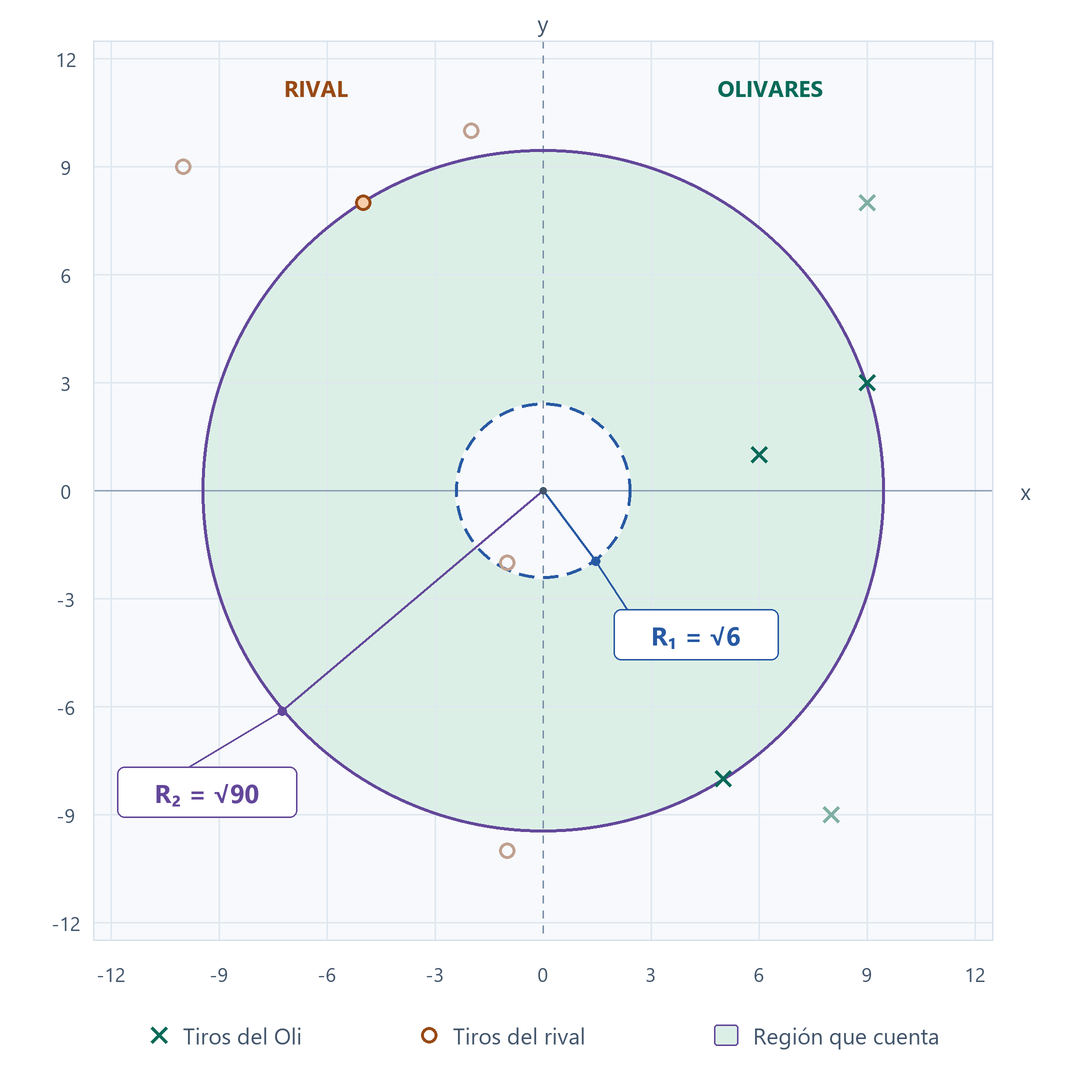
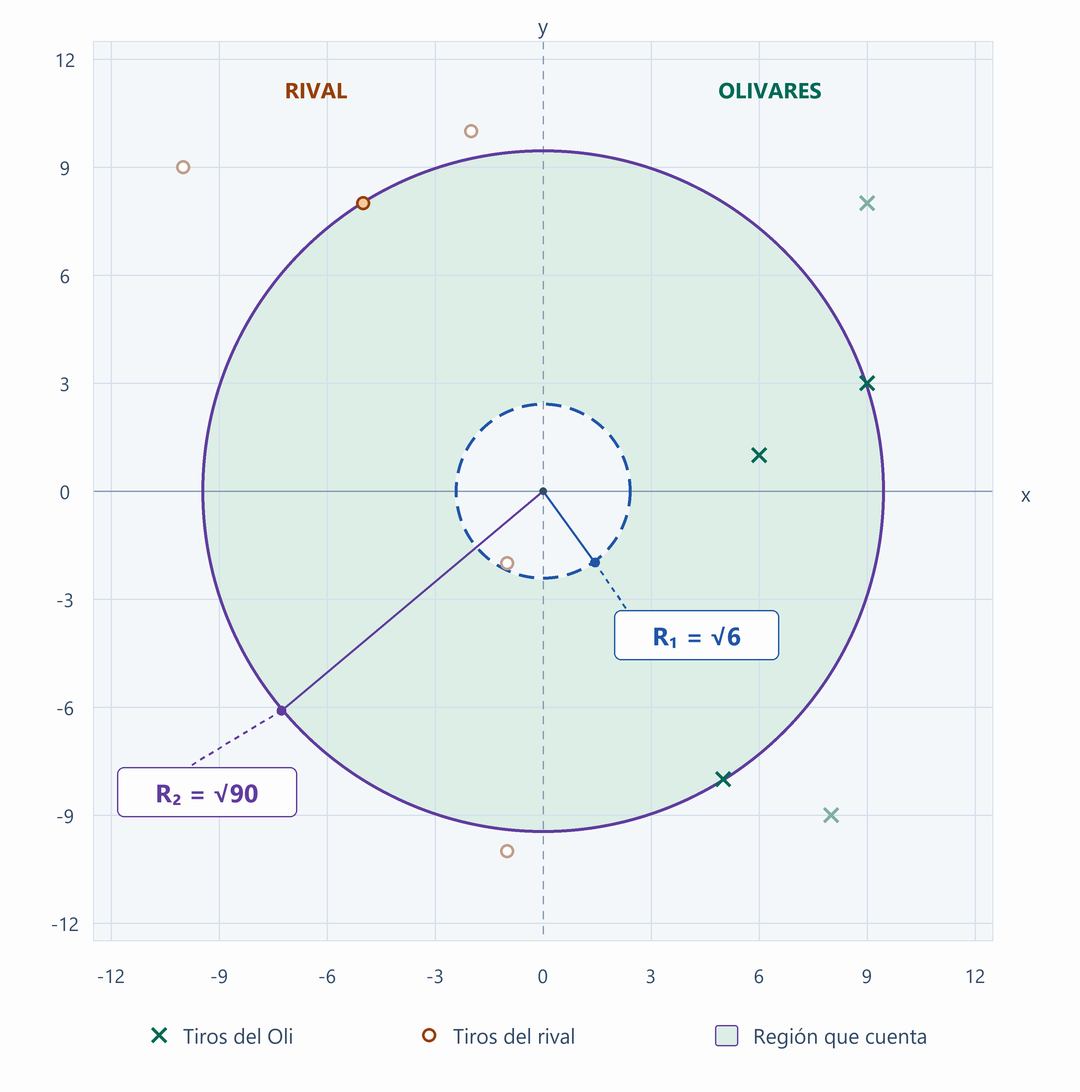
Lanzamiento de Aceitunas: Quita explicacion prefix sums y agrega enlace juez online

diff --git a/quartz/static/aceitunas-aro/index.html b/quartz/static/aceitunas-aro/index.html
@@ -453,6 +453,21 @@
           min-height: 2.75rem;
         }
       }
+      .site-credit {
+        margin-top: 1.5rem;
+        padding-top: 1rem;
+        border-top: 1px solid var(--line);
+        color: var(--muted);
+        font-size: 0.875rem;
+        text-align: center;
+      }
+      .site-credit a {
+        color: #245ba2;
+        font-weight: 650;
+      }
+      :root[data-theme="dark"] .site-credit a {
+        color: #9cb8ff;
+      }
     </style>
   </head>
   <body>
@@ -704,6 +719,10 @@
           </p>
         </section>
       </div>
+      <footer class="site-credit">
+        Hecho con amor por <a href="https://github.com/LinuxPreachers">Los Predicadores de Linux</a>
+        y Codex ❤
+      </footer>
     </main>
 
     <script>

diff --git a/quartz/static/aceitunas-reducciones/index.html b/quartz/static/aceitunas-reducciones/index.html
@@ -650,6 +650,18 @@
           font-size: 0.75rem;
         }
       }
+      .site-credit {
+        margin-top: 1.5rem;
+        padding-top: 1rem;
+        border-top: 1px solid var(--line);
+        color: var(--muted);
+        font-size: 0.875rem;
+        text-align: center;
+      }
+      .site-credit a {
+        color: #245ba2;
+        font-weight: 650;
+      }
     </style>
     <link rel="stylesheet" href="experience.css" />
   </head>
@@ -963,6 +975,10 @@
           </figcaption>
         </figure>
       </div>
+      <footer class="site-credit">
+        Hecho con amor por <a href="https://github.com/LinuxPreachers">Los Predicadores de Linux</a>
+        y Codex ❤
+      </footer>
     </main>
     <script>
       const example = [

diff --git a/quartz/static/aceitunas-comparacion/index.html b/quartz/static/aceitunas-comparacion/index.html
@@ -194,6 +194,11 @@
           empates, se conserva la primera mejora estricta.
         </p>
         <p>Las dos visualizaciones anteriores siguen disponibles desde el enunciado.</p>
+        <p class="site-credit">
+          Hecho con amor por
+          <a href="https://github.com/LinuxPreachers">Los Predicadores de Linux</a>
+          y Codex ❤
+        </p>
       </footer>
     </main>
   </body>

diff --git a/quartz/static/aceitunas-comparacion/comparison.css b/quartz/static/aceitunas-comparacion/comparison.css
@@ -784,6 +784,20 @@ footer {
   display: grid;
   gap: 0.35rem;
 }
+.site-credit {
+  margin-top: 1.5rem;
+  padding-top: 1rem;
+  border-top: 1px solid var(--line);
+  font-size: 0.875rem;
+  text-align: center;
+}
+.site-credit a {
+  color: #245ba2;
+  font-weight: 650;
+}
+:root[data-theme="dark"] .site-credit a {
+  color: #9cb8ff;
+}
 [hidden] {
   display: none !important;
 }

diff --git a/content/bestiario/oia/lanzamiento-de-aceitunas.md b/content/bestiario/oia/lanzamiento-de-aceitunas.md
@@ -9,9 +9,11 @@ tags:
 
 En un partido de lanzamiento de aceitunas, dos jugadores tiran desde lados opuestos de una red. La red coincide con el eje $y$ y cada jugador apunta a la mitad de enfrente. Por enunciado, ningún tiro puede caer sobre la red ($x=0$). El club Olivares Intergalácticos Asociados, conocido como el Oli, registró la posición $(x,y)$ donde cayó cada aceituna. Los tiros que cayeron a la derecha de la red ($x>0$) son del Oli y los que cayeron a la izquierda ($x<0$) son de su rival.
 
-Con el partido terminado, podemos elegir qué franja de la cancha se usa para calcular el resultado. La región válida es un **aro** centrado en el origen, delimitado por una circunferencia interior de radio $R_1$ y otra exterior de radio $R_2$. Una aceituna cuenta cuando su distancia al centro queda entre los dos radios. Los tiros que caen exactamente sobre cualquiera de las circunferencias también cuentan.
+Con el partido terminado, podemos elegir qué franja de la cancha se usa para calcular el resultado. La región válida es un **aro** centrado en el origen, delimitado por una circunferencia interior de radio $R_1$ y otra exterior de radio $R_2$. Una aceituna cuenta si cae dentro del aro delimitado por los dos radios, incluidos ambos bordes.
 
 El objetivo es elegir $R_1$ y $R_2$ para maximizar la diferencia entre los tiros válidos del Oli y los tiros válidos del rival. Esta variante adapta el problema de cancha circular del [enunciado original del Jurisdiccional OIA 2018](https://www.oia.unsam.edu.ar/wp-content/uploads/2020/04/olivares2.pdf).
+
+Para entender mejor cómo se cuentan los tiros, mové los bordes y observá cómo cambia el resultado. <a href="static/aceitunas-aro/#enunciado" data-router-ignore="true" data-no-popover="true">Explorar el aro y calcular su puntaje</a>
 
 ## Intuición
 
@@ -103,7 +105,7 @@ Llamamos `distCuad` a $x^2+y^2$ y lo usamos como clave de un [[map|mapa]] `difs`
 
 ### Del mapa a un vector de aportes
 
-Ordenamos las claves del mapa de menor a mayor en el [[array|vector]] `radiosCuad`. Ese orden importa porque, si el aro incluye dos radios, también incluye todos los que están entre ellos. Una vez ordenados, todos los grupos que entran al aro ocupan un bloque consecutivo. Las claves con aporte neto cero se conservan porque corresponden a tiros y pueden determinar dónde queda un borde.
+Ordenamos las claves del mapa de menor a mayor en el [[array|vector]] `radiosCuad`. Ese orden importa porque, si el aro incluye dos radios, también incluye todos los que están entre ellos. Una vez ordenados, todos los grupos que entran al aro ocupan un bloque consecutivo.
 
 Hay $M$ claves distintas entre $N$ tiros, con $1 \le M \le N$. El `dict` de Python implementa el mapa con una [[hash table|tabla hash]]. Agrupar cuesta $O(N)$ esperado y ordenar las claves cuesta $O(M\log M)$. Leer los valores en ese orden cuesta $O(M)$, con $O(M)$ de espacio auxiliar para el mapa y los vectores.
 
@@ -123,10 +125,6 @@ El menor cuadrado exterior es `radiosCuad[fin]`, porque el último grupo tiene q
 
 Entre los rangos de puntaje máximo positivo, elegimos el que tenga **el menor índice de inicio**. Si hay empate también en el inicio, elegimos el menor final. La consigna admite cualquier respuesta óptima.
 
-Con un óptimo positivo, consideramos el primer `fin` que alcanza el máximo y, para ese `fin`, el primer `ini` que lo alcanza. Así obtenemos el menor borde exterior. Si otro intervalo óptimo empezara antes de `ini`, su final tendría que ser posterior a `fin`. Un final anterior o igual contradiría cómo elegimos los índices. Entonces contendría a `[ini, fin]` y agregaría un tramo a cada lado. Esos tramos sumarían cero juntos. Cada tramo tiene suma a lo sumo cero, porque agregar por separado uno de suma positiva mejoraría el óptimo. Por lo tanto, ambos suman cero. Podríamos agregar el tramo izquierdo al intervalo que termina en `fin`, lo que contradice que `ini` era el primer inicio posible.
-
-Por lo tanto, el mismo intervalo tiene a la vez el menor inicio y el menor final entre los óptimos. Fuerza bruta lo encuentra al recorrer primero los inicios. Kadane lo encuentra al recorrer primero los finales. Esta elección minimiza también $R_1+R_2$ entre las respuestas con cuadrados enteros, porque cada radio es mínimo.
-
 ## Soluciones disponibles
 
 - [[lanzamiento-de-aceitunas-fuerza-bruta|Fuerza bruta con suma acumulada]]
@@ -137,6 +135,15 @@ Por lo tanto, el mismo intervalo tiene a la vez el menor inicio y el menor final
 - <a href="static/aceitunas-aro/#enunciado" data-router-ignore="true" data-no-popover="true">Explorar el aro y calcular su puntaje</a>
 - <a href="static/aceitunas-reducciones/#enunciado" data-router-ignore="true" data-no-popover="true">Ver el agrupamiento y simular ambos algoritmos</a>
 - <a href="static/aceitunas-comparacion/#enunciado" data-router-ignore="true" data-no-popover="true">Comparar Kadane y fuerza bruta en simultáneo</a>
+
+## Probá tu solución en Codeforces
+
+El problema está disponible en el juez Codeforces. Para enviar tu solución, seguí estos pasos.
+
+1. Entrá al [grupo de Codeforces](https://codeforces.com/group/x4ir9VBYqC/contests) y unite al grupo.
+2. Buscá el concurso **PruebaLanzamientoAceitunas** y hacé clic en **Enter**.
+3. Abrí **Lanzamiento de Aceitunas LP**. Si ya estás en el grupo, podés usar el [enlace directo al problema](https://codeforces.com/group/x4ir9VBYqC/contest/735070/problem/A).
+4. Hacé clic en **Submit code**, elegí el lenguaje y subí o pegá tu solución para que el juez la evalúe.
 
 ## Referencias
 

diff --git a/content/bestiario/oia/soluciones/lanzamiento-de-aceitunas-greedy.md b/content/bestiario/oia/soluciones/lanzamiento-de-aceitunas-greedy.md
@@ -15,21 +15,18 @@ Aplicamos el **algoritmo de Kadane**. En cada posición elegimos entre empezar u
 
 Con el ejemplo cargado, dejá fijo el borde exterior y aumentá el radio interior hasta excluir el tiro más cercano al centro. Observá cómo descartar ese aporte negativo mejora el puntaje. <a id="visualizacion-aro" href="static/aceitunas-aro/#kadane" data-router-ignore="true" data-no-popover="true">Explorar el aro y calcular su puntaje</a>
 
-### Construir y consultar sumas de prefijos
+### Extender el rango o empezar de nuevo
 
-Para un vector `a`, `sum[fin]` es la suma del prefijo `a[0..fin]`. El prefijo de una posición contiene solo `a[0]`, así que `sum[0] = a[0]`. Para extenderlo una posición agregamos el elemento siguiente. Por eso `sum[fin] = sum[fin - 1] + a[fin]` para `fin > 0`. Con `a = [-1, 1, 0, 1]`, empezamos en `-1` y obtenemos `0` al sumar `1`, otro `0` al sumar `0` y `1` al sumar el último aporte. Así se construye `sum = [-1, 0, 0, 1]` en una pasada.
+Armamos el [[array|vector]] `aportes` con los valores de `difs` en el orden de `radiosCuad`. Lo recorremos del radio más chico al más grande. Antes de procesar cada nuevo radio, `suma` guarda el puntaje del mejor rango que termina en el radio anterior e `inicio` guarda dónde empieza.
 
-Para obtener la suma de `[inicio, fin]`, usamos `sum[fin] - sum[inicio - 1]`. El segundo término quita la parte anterior al rango. Para `inicio = 0`, usamos directamente `sum[fin]`. Por ejemplo, `[1, 3]` suma `1 - (-1) = 2`. Construir `sum` cuesta $O(M)$ para $M$ elementos y consultar un rango cuesta $O(1)$.
+Para encontrar el mejor rango que termina en `fin`, comparamos dos opciones.
 
-### Elegir el inicio sobre la marcha
+- **Extender el rango anterior.** Conservamos `inicio` y el puntaje pasa a ser `suma + aporte`. Todos los rangos que terminaban en el radio anterior reciben el mismo aporte al extenderse. Por eso basta con extender el que ya tenía la mejor suma.
+- **Empezar en el radio actual.** El rango contiene un solo radio, así que el puntaje es `aporte`. Si gana esta opción, hacemos `inicio = fin` y `suma = aporte`.
 
-Acá `a` es el [[array|vector]] `aportes`, construido a partir de los aportes netos de `difs` en el orden de `radiosCuad`. Para un `fin` fijo, la consulta de prefijos muestra que conviene quitar el menor prefijo posible. El término `sum[fin]` es común a todos los candidatos. Entre los prefijos que podemos quitar está el prefijo vacío, que vale cero y corresponde a empezar en el índice cero.
+En el primer radio, el código arranca con `suma = 0` e `inicio = 0`, así que ambas opciones dan el mismo rango de un radio. Después, usamos `aporte > suma + aporte` para decidir si conviene empezar de nuevo. Si ambas opciones empatan, extendemos con `suma += aporte` para conservar el inicio más chico.
 
-Kadane conserva `suma` e `inicio` para el mejor rango que terminaba en `fin - 1`. Al leer `aporte = aportes[fin]`, todo rango que ya existía recibe ese mismo aporte al extenderse. La mejor extensión vale `suma + aporte`. La otra posibilidad es empezar en `fin`, con valor `aporte`. Si `aporte > suma + aporte`, guardamos `inicio = fin` y `suma = aporte`. En los demás casos extendemos el rango con `suma += aporte`. Si ambas opciones empatan, extender conserva el inicio más chico.
-
-La comparación equivale a decidir qué prefijo conviene quitar. Empezar en `fin` quita todo lo anterior a esa posición. Extender conserva el prefijo que ya habíamos elegido. Como solo comparamos las dos sumas al leer cada aporte, basta con mantener una suma y un inicio sobre la marcha.
-
-Comparamos el mejor rango de cada `fin` con el mejor guardado, que empieza como el aro vacío de puntaje cero. Nuestro criterio entre óptimos positivos es el **menor inicio** y, si coinciden, el menor final. En este problema ambos mínimos se alcanzan en el mismo intervalo. Por eso, al recorrer los finales de menor a mayor y guardar solo mejoras estrictas, Kadane y fuerza bruta eligen el mismo rango. [[lanzamiento-de-aceitunas#Desempate opcional|Justificación del desempate]]
+Tras decidir, comparamos el puntaje del rango actual con el mejor guardado. Empezamos con el aro vacío de puntaje cero y guardamos los índices del rango actual solo cuando mejora ese puntaje.
 
 ## Código
 
@@ -108,7 +105,7 @@ En `fin = 1`, empezar con el aporte 1 da más que extender el rango anterior, qu
 
 ## Cuándo usar esta técnica
 
-Kadane es adecuado cuando hay que maximizar una suma aditiva en un intervalo consecutivo sin restricciones adicionales de ancho, como en este problema. El paso lineal permite trabajar con los $100\,000$ tiros de la consigna incluso cuando todas las distancias difieren. La [[lanzamiento-de-aceitunas-fuerza-bruta|fuerza bruta]] da una comprobación directa en casos chicos y es más fácil de adaptar si se agregan condiciones que invalidan la decisión de descartar un tramo negativo.
+Kadane es adecuado cuando hay que maximizar una suma aditiva en un intervalo consecutivo sin restricciones adicionales de ancho, como en este problema. El paso lineal permite trabajar con los $100\,000$ tiros de la consigna incluso cuando todas las distancias difieren. La [[lanzamiento-de-aceitunas-fuerza-bruta|fuerza bruta]] da una comprobación directa en casos chicos y es más fácil de adaptar si hay cambios.
 
 ## Visualizaciones
 

diff --git a/content/bestiario/oia/soluciones/lanzamiento-de-aceitunas-fuerza-bruta.md b/content/bestiario/oia/soluciones/lanzamiento-de-aceitunas-fuerza-bruta.md
@@ -17,17 +17,13 @@ Mové un borde del aro y observá cómo entran o salen juntos todos los tiros qu
 
 Registramos el aporte neto de cada radio en el [[map|mapa]] `difs`, con `distCuad` como clave. En Python usamos un `dict`, implementado con una [[hash table|tabla hash]]. Ordenamos las claves en el [[array|vector]] `radiosCuad` para que cada aro que cuenta tiros corresponda a un intervalo de índices consecutivos.
 
-### Construir y consultar sumas de prefijos
+### Recorrer los rangos por inicio
 
-Para un vector `a`, `sum[fin]` guarda la suma del prefijo `a[0..fin]`, desde el índice cero hasta `fin` inclusive. Empezamos con `sum[0] = a[0]`. Avanzamos de izquierda a derecha y, para cada `fin > 0`, construimos `sum[fin] = sum[fin - 1] + a[fin]`. Con `a = [-1, 1, 0, 1]`, los prefijos se construyen como `-1`, `-1 + 1 = 0`, `0 + 0 = 0` y `0 + 1 = 1`. El vector `sum` queda `[-1, 0, 0, 1]`.
+El bucle externo recorre los inicios `ini` de menor a mayor. Para cada uno, fijamos `suma = 0` y el bucle interno recorre los finales `fin` desde `ini` hasta el último índice. En cada paso, `suma += difs[radiosCuad[fin]]` agrega el aporte del radio que acaba de entrar al rango.
 
-Para consultar `[ini, fin]`, tomamos `sum[fin]` y restamos `sum[ini - 1]`, que contiene los elementos anteriores a `ini`. Si `ini = 0`, el resultado es directamente `sum[fin]`. Por ejemplo, `[1, 3]` suma `sum[3] - sum[0] = 1 - (-1) = 2`. Construir los prefijos toma $O(M)$ para un vector de $M$ elementos y cada consulta toma $O(1)$.
+Cuando `fin = ini`, la suma contiene solo el aporte inicial. Al avanzar `fin`, la suma que ya teníamos cubre `[ini, fin - 1]`. Con el nuevo aporte obtenemos el puntaje de `[ini, fin]` y lo comparamos con el máximo guardado. Al pasar a otro inicio, volvemos a cero porque empezamos otro rango.
 
-### Aplicar la suma sobre la marcha
-
-En este problema, `a` son los aportes netos del mapa leídos en el orden de `radiosCuad`. Para cada `ini` recorremos los finales en orden, así que podemos acumular en el momento el mismo valor que daría la consulta de prefijos. Empezamos esa fila con `suma = 0`. Al extender el rango hasta `fin`, agregamos `difs[radiosCuad[fin]]`. La nueva `suma` vale lo mismo que `sum[fin] - sum[ini - 1]` si `ini > 0`, o que `sum[fin]` si `ini = 0`. Al pasar a otro `ini`, la suma vuelve a cero. Esto calcula cada candidato en tiempo constante esperado con una consulta al mapa y mantiene solo la suma corriente.
-
-Al recorrer todos los inicios y todos sus finales, probamos cada intervalo válido exactamente una vez. Como criterio de desempate, elegimos el rango de **menor inicio** y, si comparten inicio, el de menor final. Los bucles visitan los rangos en ese orden y guardamos uno nuevo solo si supera el mejor puntaje. Si el mejor puntaje es cero, devolvemos `0 0`. Para un puntaje positivo, reconstruimos los dos cuadrados enteros con los índices guardados. [[lanzamiento-de-aceitunas#Desempate opcional|Justificación del desempate]]
+Así probamos cada intervalo válido exactamente una vez. Como criterio de desempate, elegimos el rango de **menor inicio** y, si comparten inicio, el de menor final. Los bucles visitan los rangos en ese orden y guardamos uno nuevo solo si supera el mejor puntaje. Si el mejor puntaje es cero, devolvemos `0 0`. Para un puntaje positivo, reconstruimos los dos cuadrados enteros con los índices guardados.
 
 ## Código
 
@@ -99,7 +95,7 @@ Con `ini = 1`, arrancamos con cero y sumamos los aportes 1, 0 y 1 para `fin = 1`
 
 ## Cuándo usar esta técnica
 
-La enumeración permite inspeccionar todos los candidatos y sirve para validar otra implementación con instancias chicas. También resulta viable con muchos tiros si caen en pocas circunferencias. Cuando cada tiro tiene una distancia distinta, $100\,000$ grupos generan más de cinco mil millones de intervalos. [[lanzamiento-de-aceitunas-greedy|Kadane]] evita esa enumeración y resuelve la búsqueda con una sola pasada y espacio constante adicional.
+La enumeración permite inspeccionar todos los candidatos y sirve para validar otra implementación con instancias chicas. También resulta viable con muchos tiros si caen en pocas circunferencias. Cuando cada tiro tiene una distancia distinta, $100\,000$ grupos generan más de cinco mil millones de intervalos. Si la fuerza bruta excede el límite de tiempo, podemos usar [[lanzamiento-de-aceitunas-greedy|Kadane]], cuya solución completa toma $O(N\log N)$ en tiempo esperado, incluido el ordenamiento.
 
 ## Visualizaciones
 
